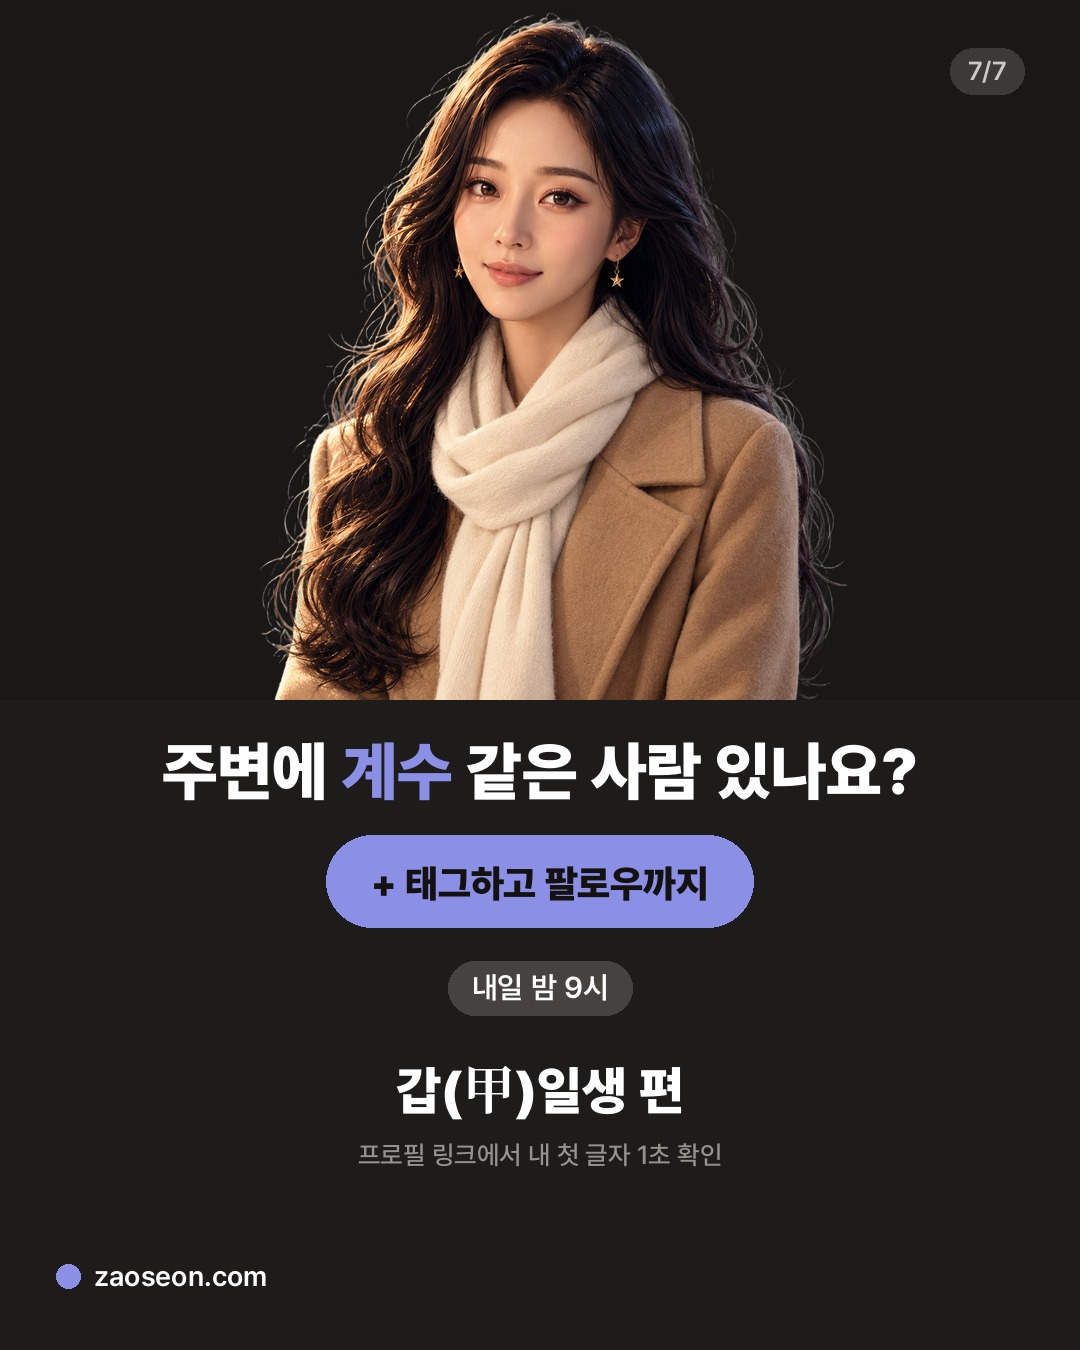
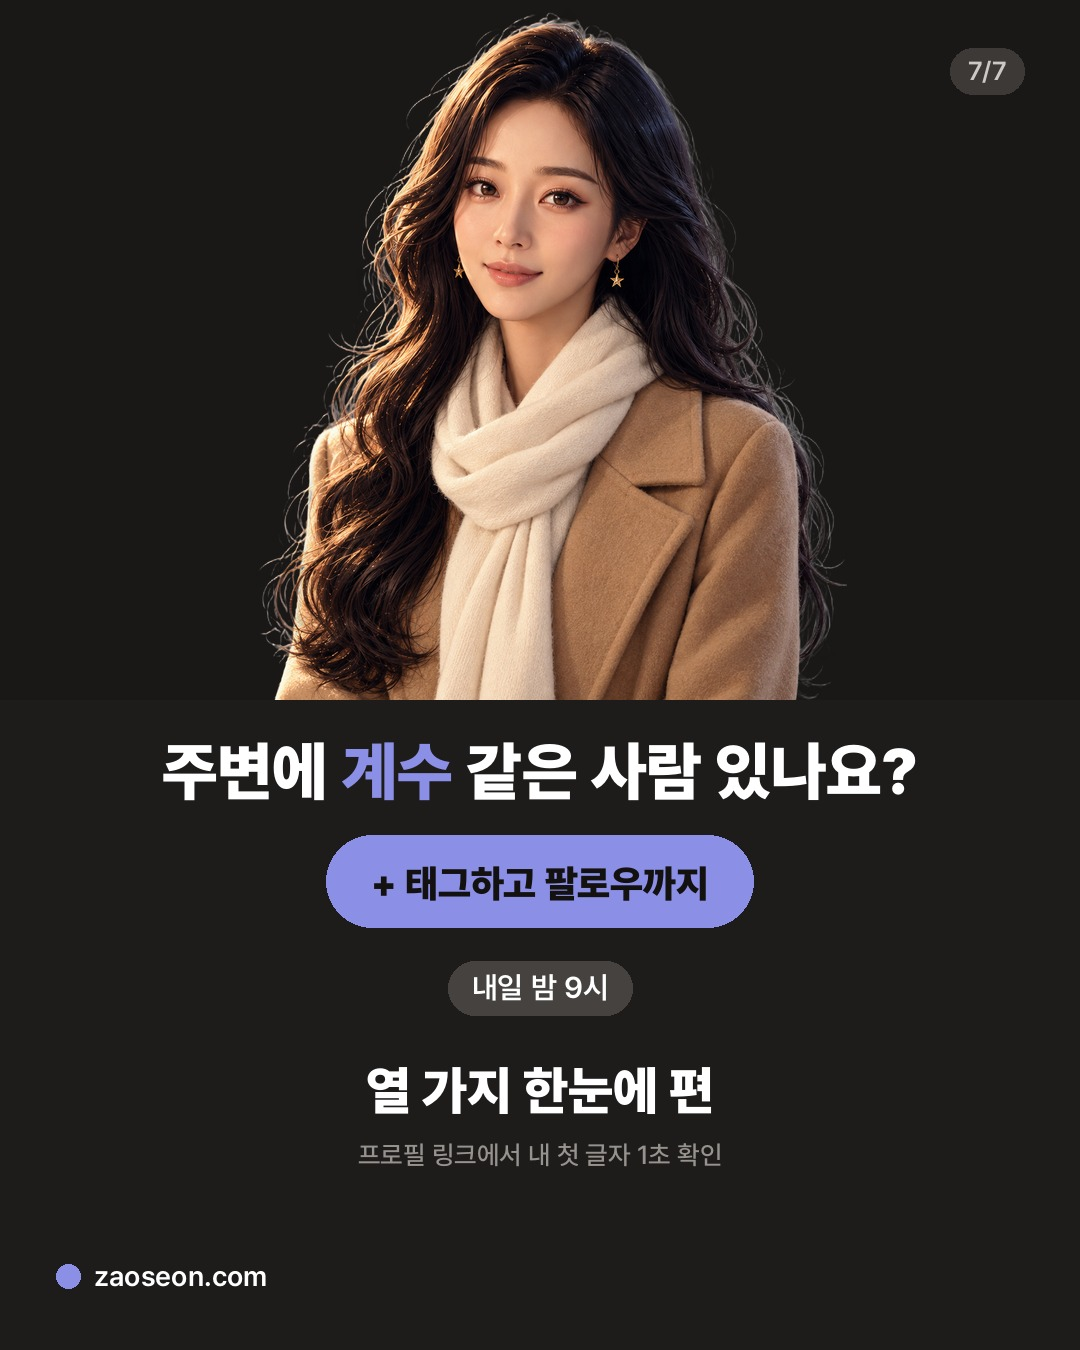
캐러셀: 일간 시리즈 7세트(10/2~10/9)로 확정, 갑·을는 예비

Changed region(s): [[0.3361, 0.7778, 0.6722, 0.84]]

diff --git a/content/carousel_sets.py b/content/carousel_sets.py
@@ -45,14 +45,18 @@ SETS = {
    ["말 안 해도 알아주길 바라요","천천히 스며들듯 다가가는 스타일이에요.\n바라는 건 작게라도 말로 꺼내 보세요."],
    ["눈치로 아끼고 눈치로 쓰는 타입","분위기를 읽어 필요한 곳에만 써요.\n혼자 고민하다 놓친 기회는 없는지 점검해 보세요."],
    ["섬세함은 무기,\n표현도 더하면 완벽해요","알아주길 기다리지 말고 한 문장만 말해 보세요.\n작은 표현이 관계를 훨씬 편하게 만들어요."],
-   "물이 고요하고 깊어 섬세한 감각이 드러나요",[0.4,0.25,0.3,0.35,0.95],4,"주변에 *계수* 같은 사람 있나요?","갑(甲)일생 편","라면"),
- "2026-10-10": S("갑","甲","#6bb36b","v7_hanbok","곧게 뻗어\n굽히기 싫은 사람",0,
+   "물이 고요하고 깊어 섬세한 감각이 드러나요",[0.4,0.25,0.3,0.35,0.95],4,"주변에 *계수* 같은 사람 있나요?","열 가지 한눈에 편","라면"),
+}
+
+# 아침 10/10은 열 가지 요약 글이라 갑·을 세트는 쓰지 않음. 다음에 일간 시리즈를 이어 갈 때 쓴다(날짜는 비워 둠)
+SPARE = {
+ "갑": S("갑","甲","#6bb36b","v7_hanbok","곧게 뻗어\n굽히기 싫은 사람",0,
    ["우뚝 서서 앞장서는 타입","큰 나무 같은 기운이라, 한번 정한 방향으로\n곧게 자라려는 힘이 강해요."],
    ["책임지는 사랑을 해요","표현은 서툴러도 한번 정하면 곁을 오래 지켜요.\n마음은 말로 한 번씩 꺼내 주세요."],
    ["성장에 쓰는 투자형","배우고 키우는 일에 기꺼이 써요.\n큰 지출 전엔 회수 시기를 적어 보세요."],
    ["곧음은 무기,\n휘는 법도 알면 완벽해요","센 바람엔 가지도 흔들려야 부러지지 않아요.\n한 번쯤 다른 의견에 먼저 끄덕여 보세요."],
    "나무 기운이 곧게 뻗어 추진력과 책임감이 드러나요",[1.0,0.35,0.3,0.25,0.4],0,"주변에 *갑목* 같은 사람 있나요?","을(乙)일생 편"),
- "2026-10-11": S("을","乙","#a3c96b","v11_mug","바람에 맞춰 눕고\n다시 일어나는 사람",0,
+ "을": S("을","乙","#a3c96b","v11_mug","바람에 맞춰 눕고\n다시 일어나는 사람",0,
    ["부드럽지만 꺾이지 않는 타입","들풀 같은 기운이라, 맞추는 힘이 크고\n어디서든 뿌리를 내려요."],
    ["상대에게 맞춰 주는 사랑을 해요","배려가 깊어 오래 참기도 해요.\n맞추다 내 마음을 놓치지 않게 먼저 말해 보세요."],
    ["꾸준히 모으는 알뜰형","작은 돈도 허투루 쓰지 않아요.\n가끔은 나를 위한 지출도 계획에 넣어 보세요."],
